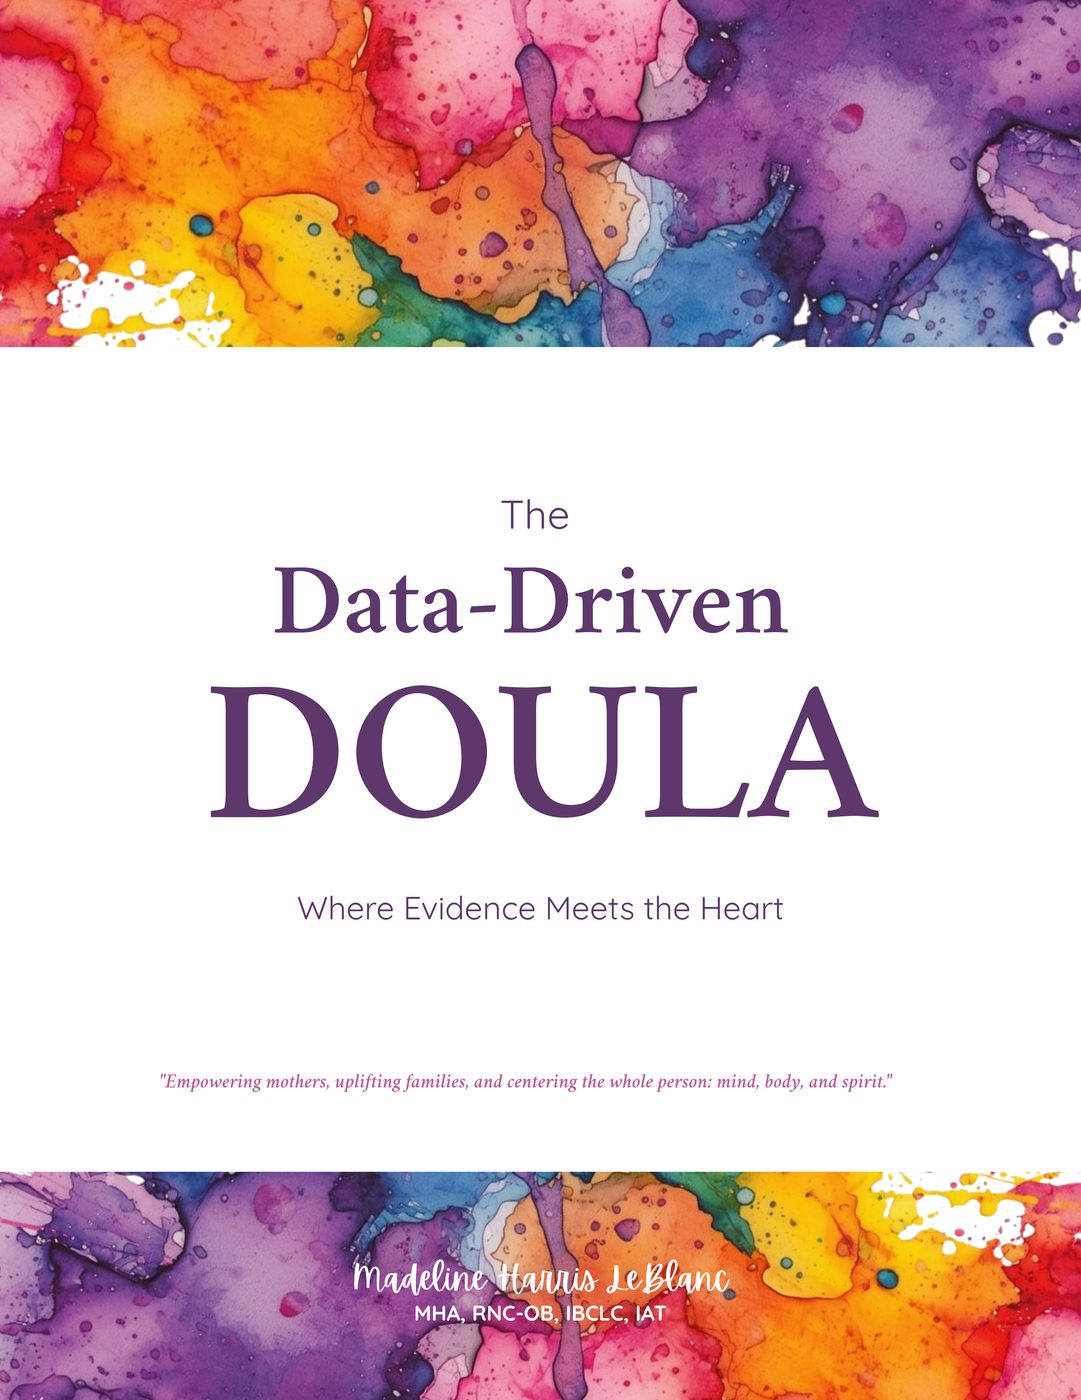
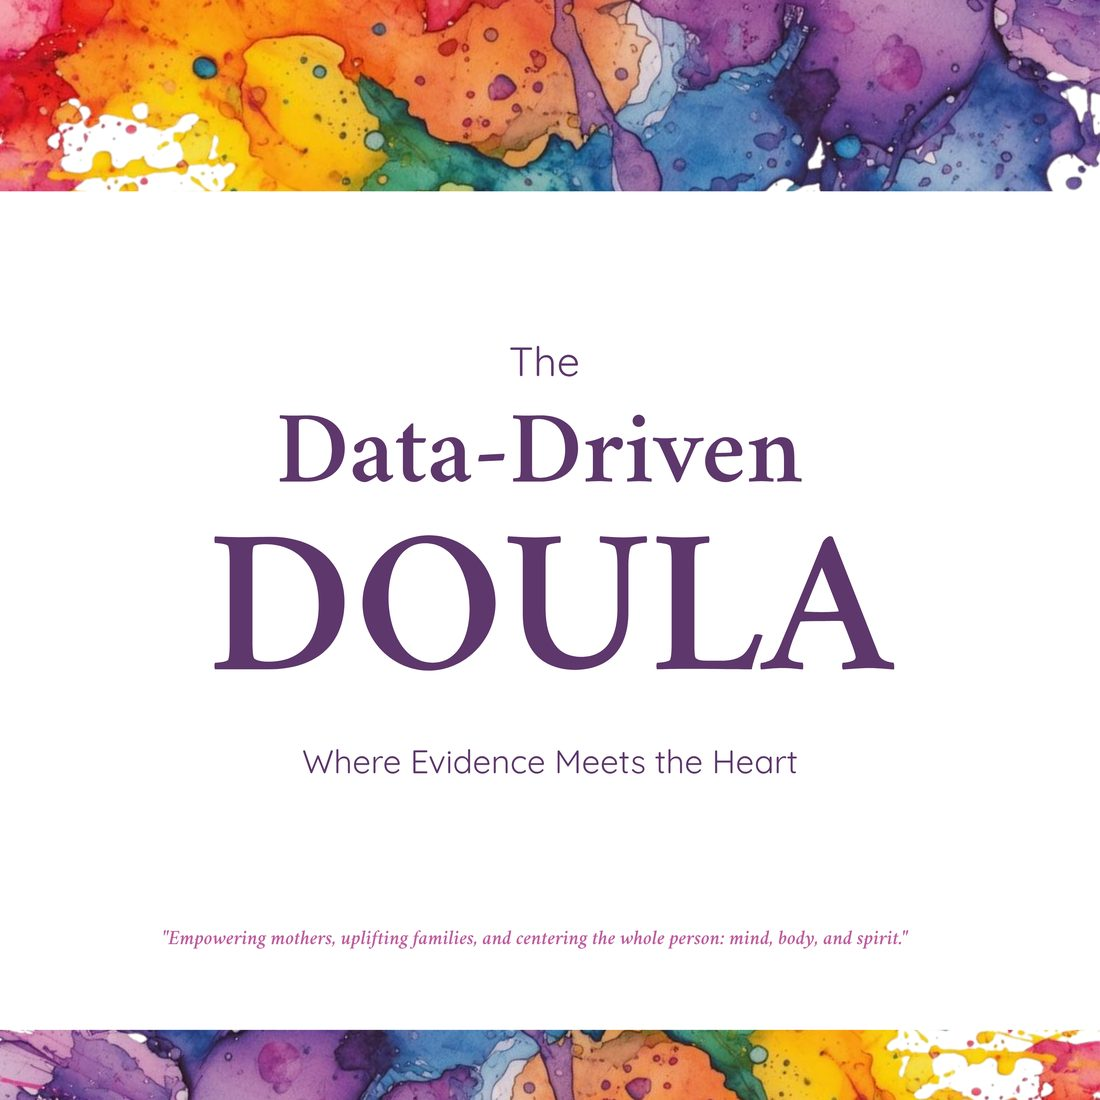
Books row: drop 'Coming Soon' header (all live now), unify photo frames
- Section heading 'Coming Soon' renamed to 'Books & Training Materials' since Bereavement Bundle, Everything Guide, and Data-Driven Doula are all live products now (plus the Bereavement Course in the callout below)
- Re-cropped everything-guide.jpg and data-driven-doula.jpg to 1100x1100 squares centered on the book covers, matching the bereavement-1 crop. All three book cards now show identical-sized photo frames with the book filling the frame consistently.

diff --git a/store.html b/store.html
@@ -350,8 +350,8 @@
 
   </div>
 
-  <!-- COMING SOON -->
-  <div class="acc-section-head" style="margin-top:48px"><span class="line"></span>Coming Soon</div>
+  <!-- BOOKS + TRAINING MATERIALS -->
+  <div class="acc-section-head" style="margin-top:48px"><span class="line"></span>Books &amp; Training Materials</div>
   <div class="pgrid">
 
     <div class="product placeholder">
